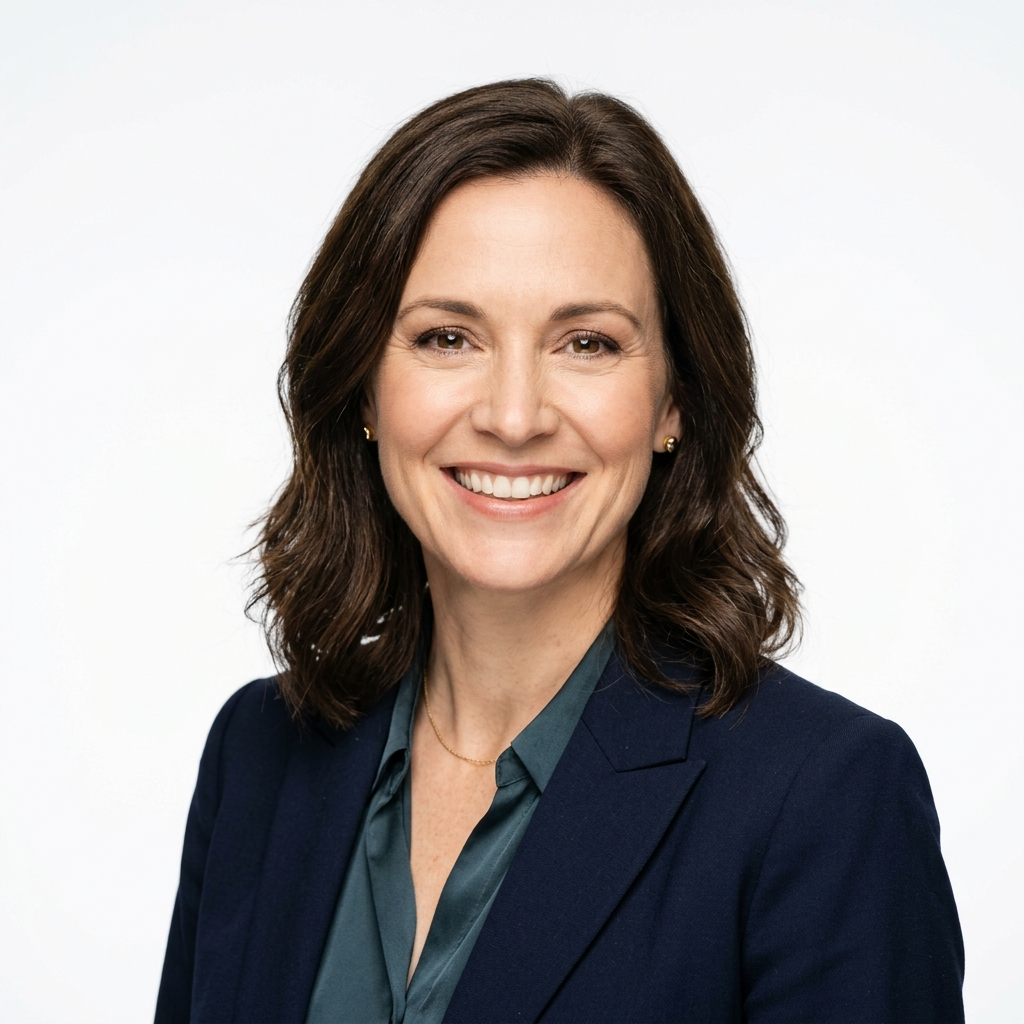
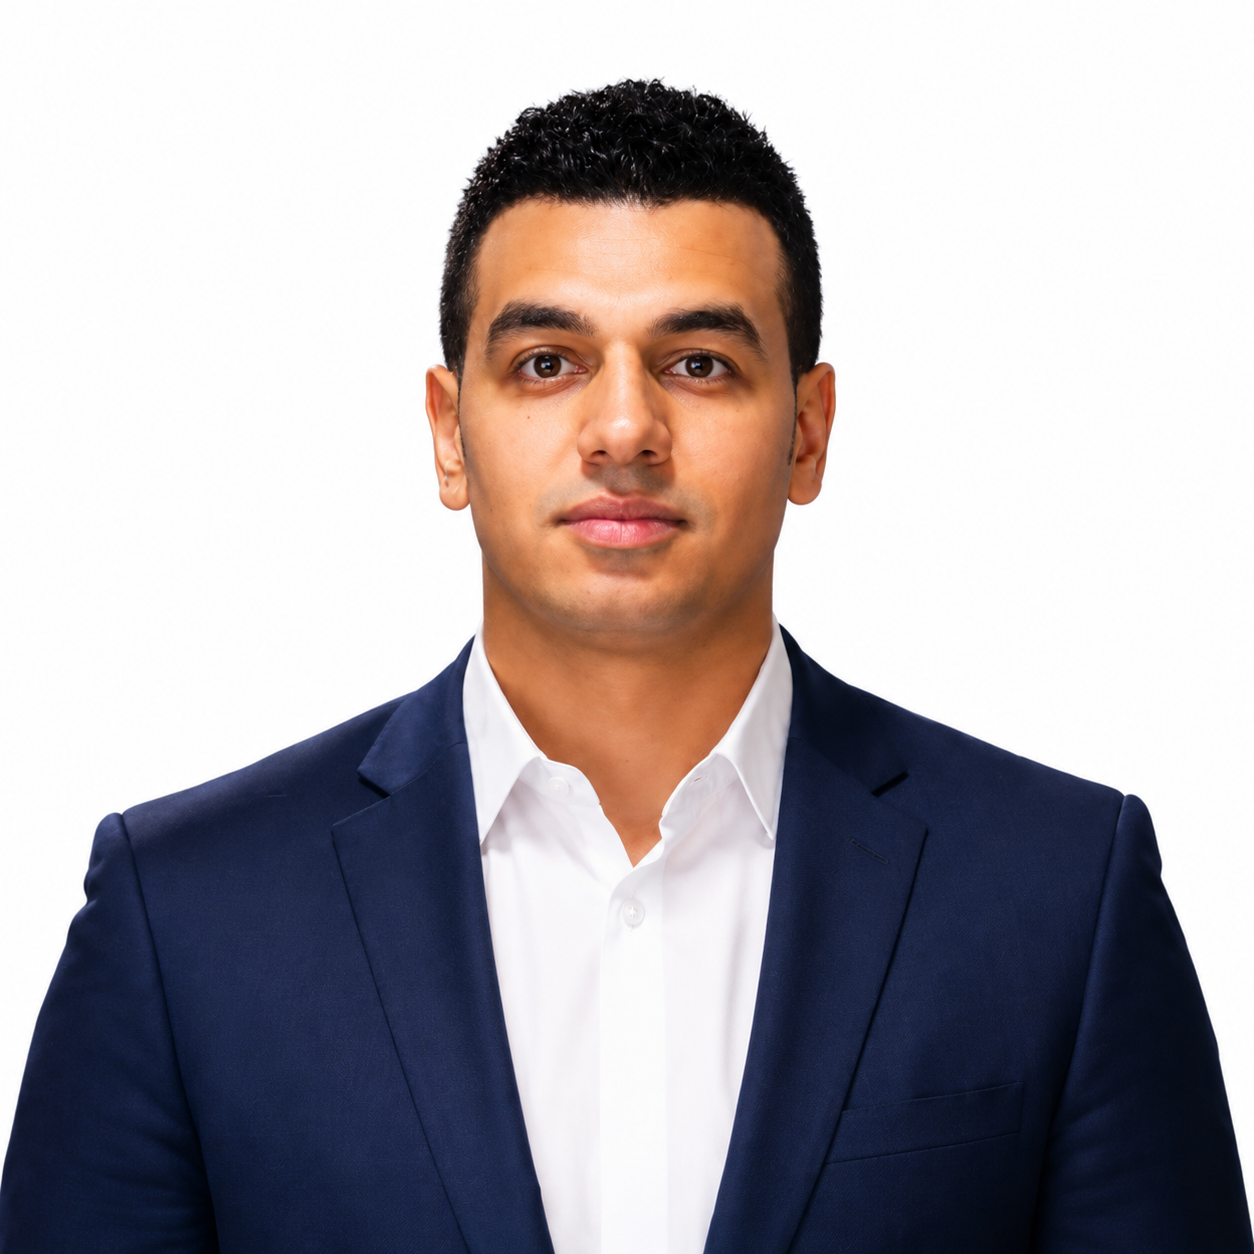
feat: implement GSAP slider component and add client testimonial data with assets

diff --git a/components/pages/home/ClientsSection/clientsData.ts b/components/pages/home/ClientsSection/clientsData.ts
@@ -3,34 +3,10 @@ import type { Testimonial } from './types';
 export const TESTIMONIALS: Testimonial[] = [
     {
         id: "01",
-        clientName: "Jackline Techie",
-        role: "CEO at Kormola",
-        comment: "Objectively visualize error-free technology for B2B alignment. Monotonectally harness an expanded array of models via effective collaboration. Globally synergize resource sucking value via cutting-edge.",
+        clientName: "Abdelrahman Mokhtar",
+        role: "Client",
+        comment: "A highly professional company with an exceptional and respectful development team. I've worked with them on more than three software projects, and every one of them was a complete success. I highly recommend working with them and choosing them for your next project.",
         rating: 5,
         avatar: "/clients/client_1.png",
-    },
-    {
-        id: "02",
-        clientName: "Abraham Khalil",
-        role: "CEO at Anatora",
-        comment: "Objectively visualize error-free technology for B2B alignment. Monotonectally harness an expanded array of models via effective collaboration. Globally synergize resource sucking value via cutting-edge.",
-        rating: 5,
-        avatar: "/clients/client_2.png",
-    },
-    {
-        id: "03",
-        clientName: "Md Sumon Mia",
-        role: "CEO at Rimasu",
-        comment: "Objectively visualize error-free technology for B2B alignment. Monotonectally harness an expanded array of models via effective collaboration. Globally synergize resource sucking value via cutting-edge.",
-        rating: 5,
-        avatar: "/clients/client_3.png",
-    },
-    {
-        id: "04",
-        clientName: "Sarah Johnson",
-        role: "Founder at Bright",
-        comment: "Objectively visualize error-free technology for B2B alignment. Monotonectally harness an expanded array of models via effective collaboration. Globally synergize resource sucking value via cutting-edge.",
-        rating: 5,
-        avatar: "/clients/client_1.png",
-    },
+    }
 ];

diff --git a/components/ui/GSAPSlider.tsx b/components/ui/GSAPSlider.tsx
@@ -268,8 +268,9 @@ export default function GSAPSlider<T extends { id?: string | number }>({
 
   if (totalItems === 0) return null;
 
-  const showSideControls = showControls && controlsPosition === "sides";
-  const showCenterControls = showControls && controlsPosition === "center";
+  const showSideControls = showControls && controlsPosition === "sides" && maxIndex > 0;
+  const showCenterControls = showControls && controlsPosition === "center" && maxIndex > 0;
+  const showPaginationDots = showDots && maxIndex > 0;
 
   return (
     <div
@@ -323,13 +324,13 @@ export default function GSAPSlider<T extends { id?: string | number }>({
         </div>
       </div>
 
-      {(showCenterControls || showDots) && (
+      {(showCenterControls || showPaginationDots) && (
         <div className="flex items-center justify-center gap-2 sm:gap-3 mt-3 sm:mt-4">
           {showCenterControls && (
             <NavButton direction="prev" onClick={prevSlide} position="center" />
           )}
 
-          {showDots && (
+          {showPaginationDots && (
             <div className="flex items-center gap-1 px-1">
               {Array.from({ length: maxIndex + 1 }).map((_, dotIdx) => (
                 <button

diff --git a/components/pages/home/ClientsSection/ClientCard.tsx b/components/pages/home/ClientsSection/ClientCard.tsx
@@ -10,7 +10,7 @@ export function ClientCard({ client }: ClientCardProps) {
                 group relative flex flex-col justify-between
                 bg-white dark:bg-[#0c101d]
                 border border-slate-200/90 dark:border-slate-800/90
-                rounded-3xl p-7 pt-4
+                rounded-3xl p-5 pt-8
                 shadow-xl shadow-slate-200/40 dark:shadow-none
                 hover:border-blue-500/60 dark:hover:border-sky-400/60
                 hover:shadow-2xl hover:shadow-blue-500/20 dark:hover:shadow-blue-500/20
